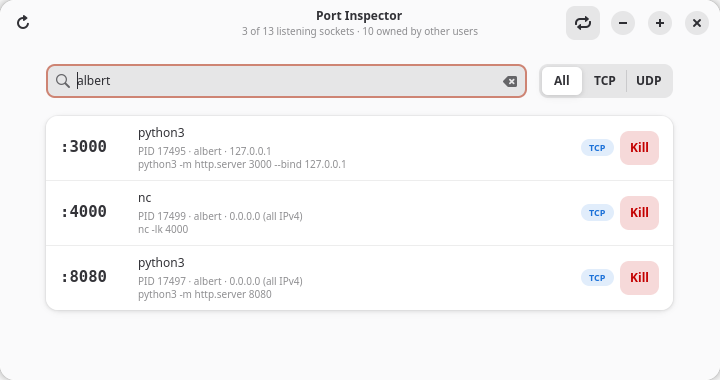
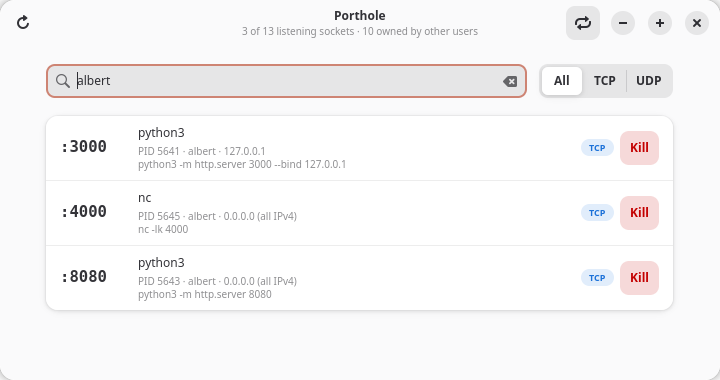
Rename app to Porthole
Rename the crate and binary to porthole, change the app ID to
io.github.albertarakelyan.Porthole, update the window title and README,
and retake the screenshot.

diff --git a/src/main.rs b/src/main.rs
@@ -9,7 +9,7 @@ use gtk::{gdk, gio, glib};
 
 use sockets::{KillError, Listener, Proto, Signal};
 
-const APP_ID: &str = "dev.albert.PortInspector";
+const APP_ID: &str = "io.github.albertarakelyan.Porthole";
 const AUTO_REFRESH: Duration = Duration::from_secs(2);
 
 const CSS: &str = "
@@ -62,7 +62,7 @@ fn load_css() {
 
 fn build_ui(app: &adw::Application) {
     // Header bar
-    let title = adw::WindowTitle::new("Port Inspector", "");
+    let title = adw::WindowTitle::new("Porthole", "");
     let refresh = gtk::Button::builder()
         .icon_name("view-refresh-symbolic")
         .tooltip_text("Refresh (F5)")
@@ -130,7 +130,7 @@ fn build_ui(app: &adw::Application) {
 
     let window = adw::ApplicationWindow::builder()
         .application(app)
-        .title("Port Inspector")
+        .title("Porthole")
         .default_width(720)
         .default_height(680)
         .width_request(360)

diff --git a/README.md b/README.md
@@ -2,7 +2,7 @@
 
 See what's listening on your ports and kill it in one click. A small native GTK4 + libadwaita app for Linux.
 
-![Port Inspector](data/screenshot.png)
+![Porthole](data/screenshot.png)
 
 ## Features
 
@@ -47,7 +47,7 @@ cd Porthole
 cargo run --release
 ```
 
-The binary ends up in `target/release/port-process-inspector`. Copy it anywhere on your `PATH` if you want to run it directly.
+The binary ends up in `target/release/porthole`. Copy it anywhere on your `PATH` if you want to run it directly.
 
 ## Good to know
 
